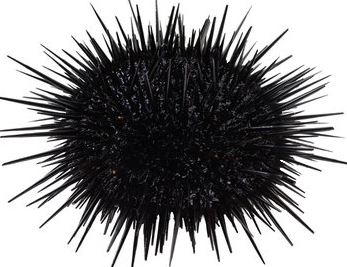
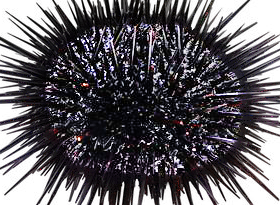
当たり判定調整やらMoveSpeedをいろんなところに入れてみたりやらいろいろ

diff --git a/Run.h b/Run.h
@@ -23,5 +23,5 @@ void movePlayer(void);
 int setOBS(int x, int y, int vx, int vy, int ptn, int img, int sld);
 void moveOBS(void);
 void distanceM(void);
-void drawText(int x, int y, const char* txt, int val, int col, int size);
-void drawPramater(void);
+void MSM(void);
+void HYOSIKIM(void);